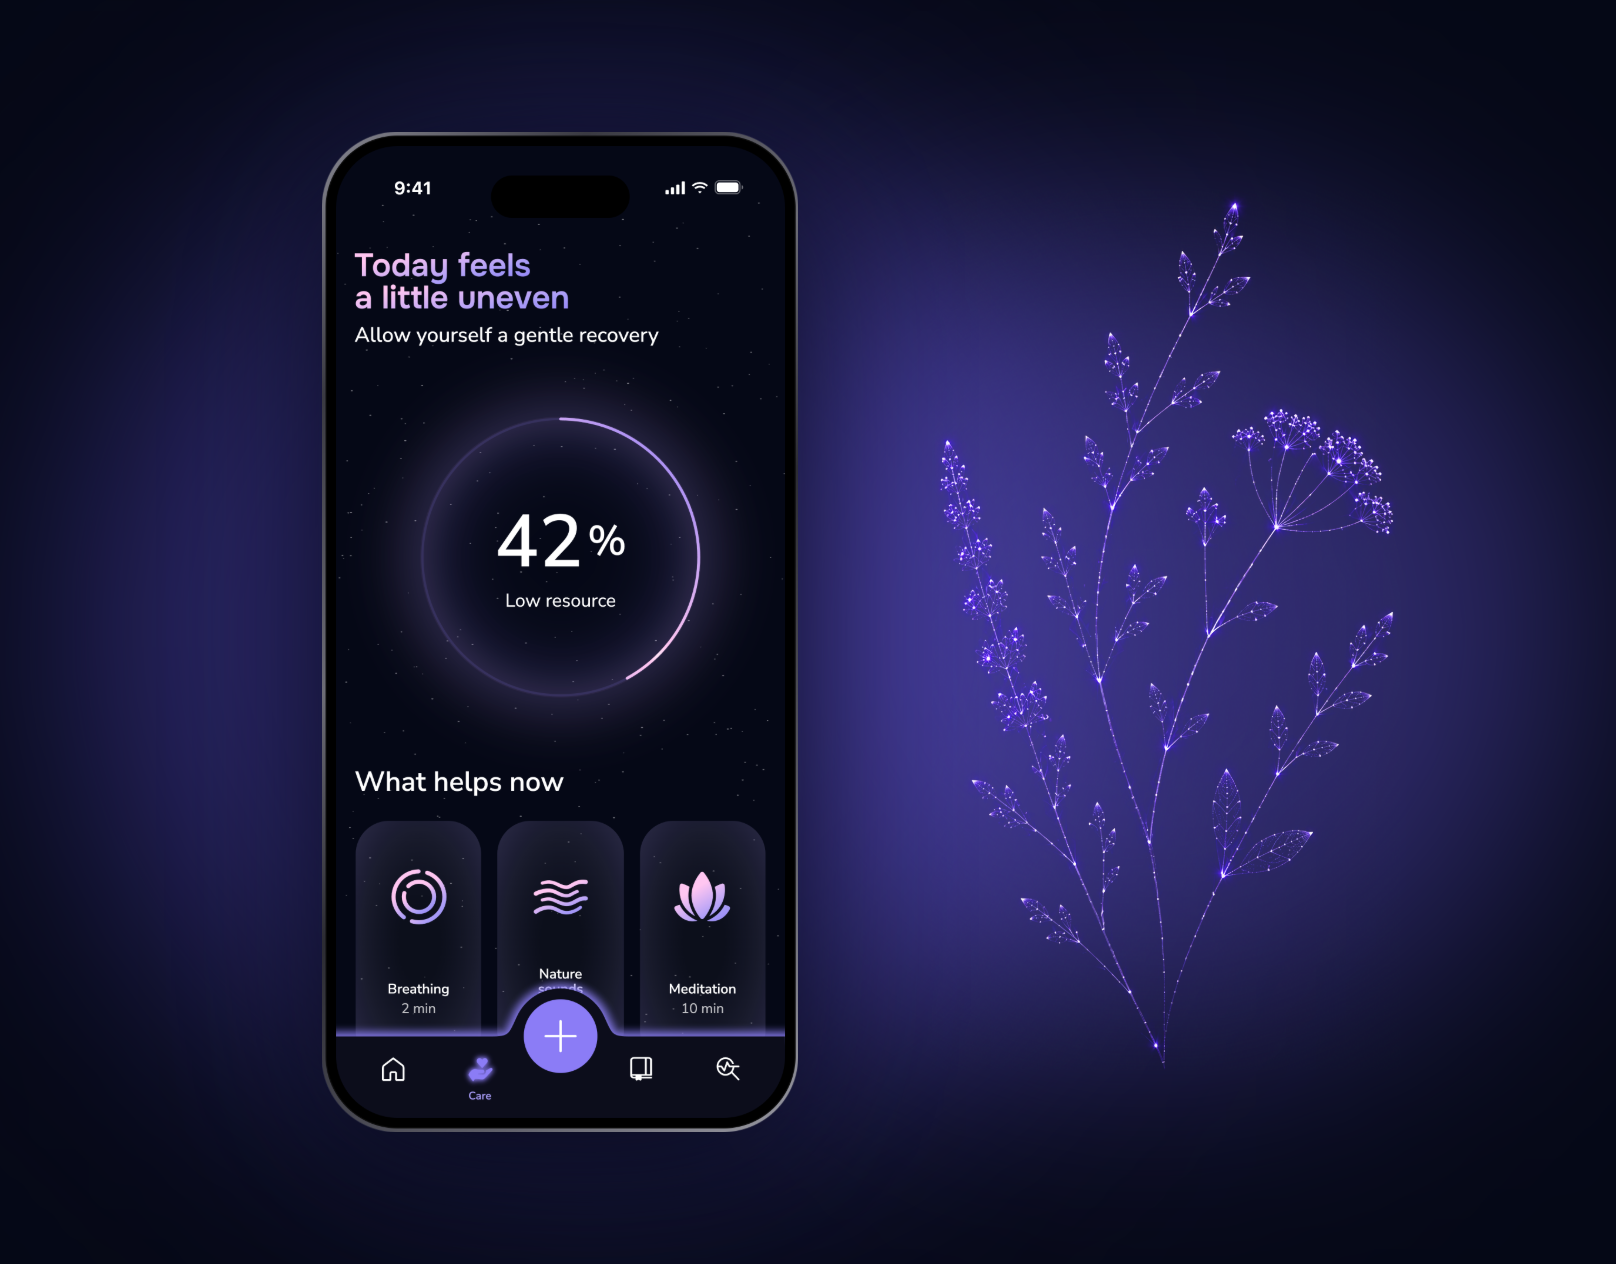
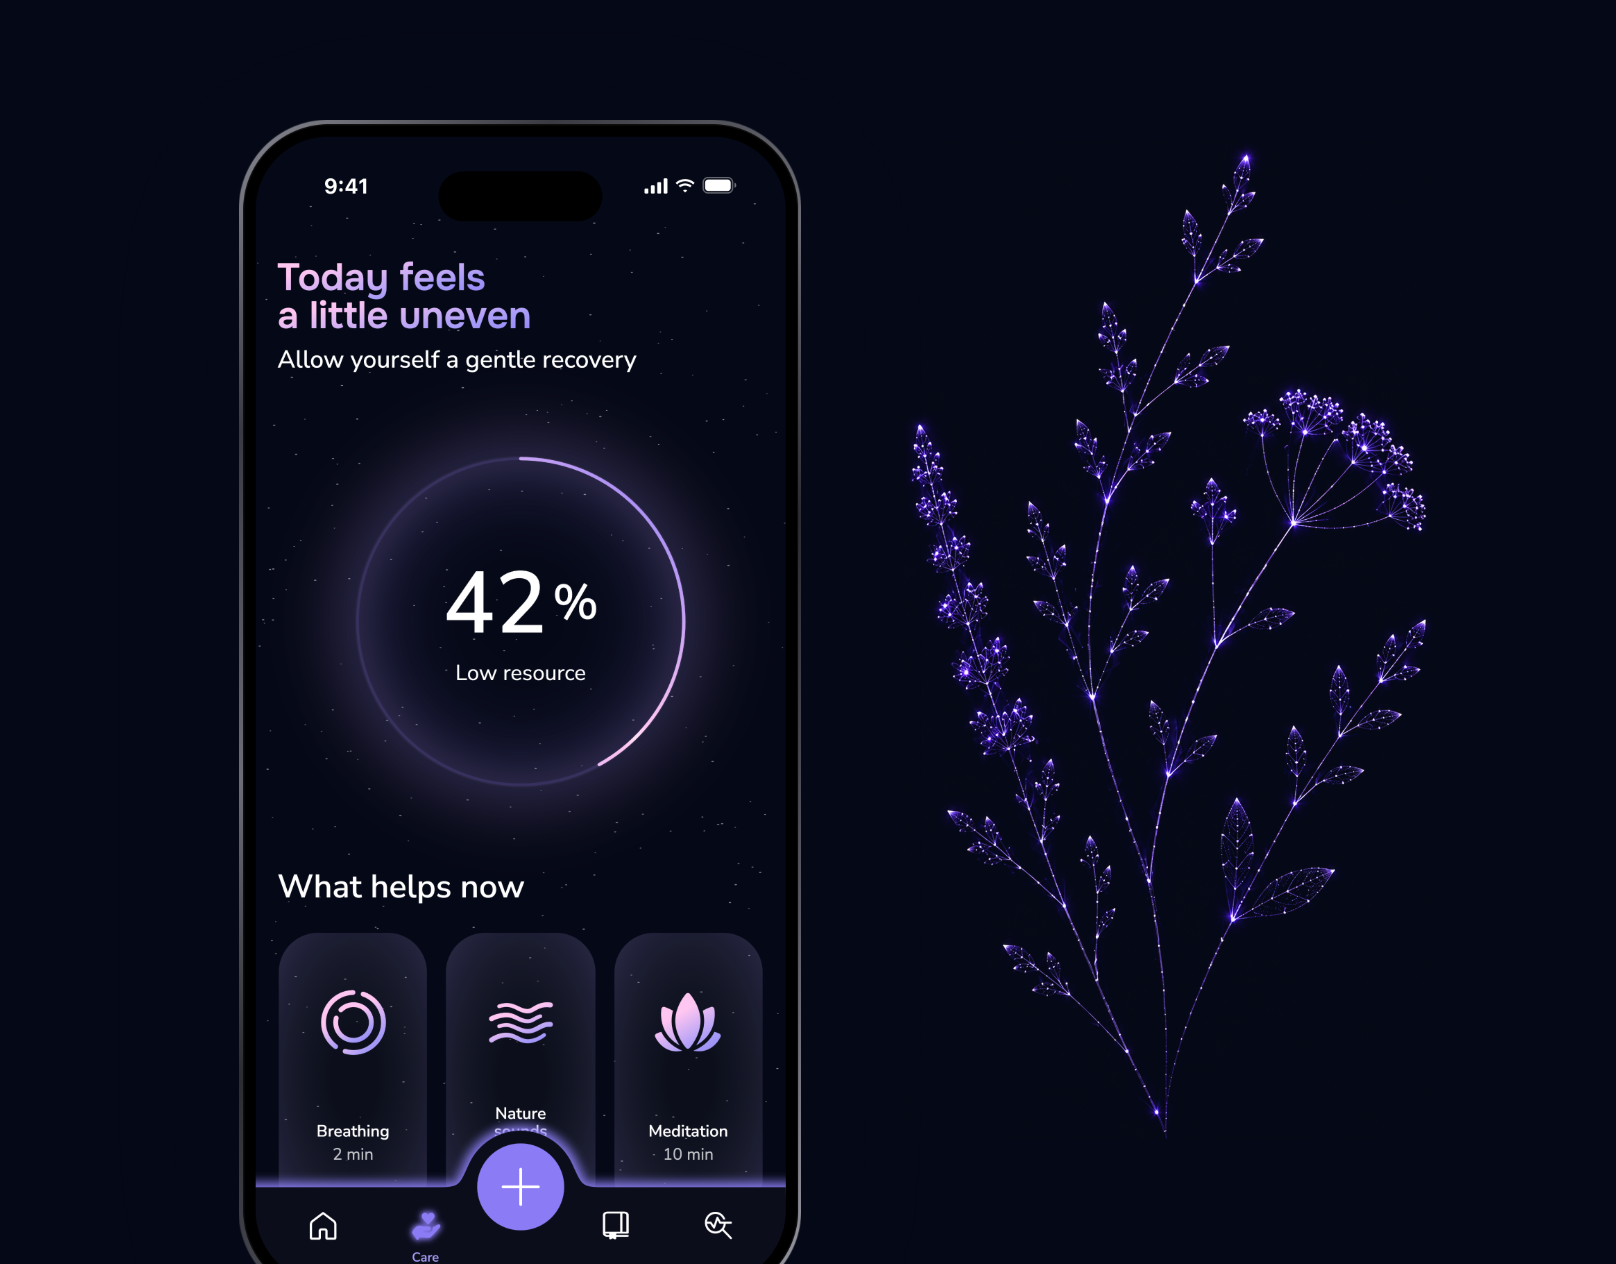
Behance case: cover D only, three lighting versions

diff --git a/Behance кейс/Обложка/превью-проекта/cover-options.html b/Behance кейс/Обложка/превью-проекта/cover-options.html
@@ -1,14 +1,13 @@
 <!doctype html>
 <html><head><meta charset="utf-8">
-<title>Behance project cover — options</title>
-<link href="https://fonts.googleapis.com/css2?family=Nunito+Sans:opsz,wght@6..12,300;6..12,400&family=Onest:wght@300;400&display=swap" rel="stylesheet">
-<!-- Behance feed thumbnail (808×632, made at 2x = 1616×1264). Goal: readable at matchbox size: one big bright object, little or no text.
-     Only real assets: thin phone mockups (Мокапы/thin), a frame of the 'hard evening' video (breathing orb), the closing logo render, the herb original.
-     ?full=1 shows the frames at 100% for export. -->
+<title>Behance project cover — D</title>
+<!-- Behance feed thumbnail (808×632, made at 2x = 1616×1264), her pick: variant D (Care phone bleeding off the bottom + the evening-calm herb).
+     11-14: other variants removed; she found the light under the herb too bright, so D1 = softer, smaller light; D2 = no lights at all; D3 = light behind the phone only.
+     ?full=1 shows the frames at 100% for export (tools/cover-shoot.js). -->
 <style>
   * { box-sizing:border-box; }
-  body { margin:0; background:#1e1e22; font-family:'Nunito Sans',sans-serif; color:#9a9aa6; padding:30px 40px 80px; }
-  .opt { font-size:15px; margin:40px 0 10px; line-height:1.55; max-width:1100px; } .opt b { color:#e4e2ee; font-weight:400; }
+  body { margin:0; background:#1e1e22; font-family:-apple-system, sans-serif; color:#9a9aa6; padding:30px 40px 80px; }
+  .opt { font-size:15px; margin:40px 0 10px; line-height:1.55; max-width:1100px; } .opt b { color:#e4e2ee; font-weight:500; }
   .zoom { zoom:.42; } body.full .zoom { zoom:1; } body.full .opt, body.full .feed { display:none; }
   .c { width:1616px; height:1264px; position:relative; overflow:hidden; background:#050816; }
   .abs { position:absolute; }
@@ -17,27 +16,16 @@
   .feed .t { width:404px; } .feed .t .img { width:404px; height:316px; border-radius:8px; overflow:hidden; }
   .feed .t .img > .c { zoom:.25; } .feed .cap { font-size:13px; color:#e4e2ee; margin-top:8px; } .feed .cap span { display:block; color:#8a8a96; font-size:12px; }
   .ph { position:absolute; filter:drop-shadow(0 30px 80px rgba(5,8,22,.9)); }
-  .word { position:absolute; font-family:'Onest'; font-weight:300; letter-spacing:.32em; color:#DDD9FF; }
-  .sub { position:absolute; font-family:'Nunito Sans'; font-weight:300; letter-spacing:.04em; color:#A6ABC6; }
 </style></head><body><div id="wrap">
 
-<div class="opt"><b>A · Breath.</b> Один телефон с большим светящимся шаром дыхания (кадр из «A hard evening»), за ним мягкий фиолетовый свет. Ни одного слова, только самый «живой» экран приложения.</div>
-<div class="zoom"><div class="c" id="A"></div></div>
+<div class="opt"><b>D1 · Мягче.</b> Свет за травой меньше и тусклее, за телефоном как было.</div>
+<div class="zoom"><div class="c" id="D1"></div></div>
 
-<div class="opt"><b>B · Three screens.</b> Три настоящих экрана веером: Home с биоритмами, Care с кольцом 42% в центре и крупнее, экран с шаром дыхания. Сразу видно, что это целое приложение.</div>
-<div class="zoom"><div class="c" id="B"></div></div>
-
-<div class="opt"><b>B2 · Three screens, целиком.</b> То же, но телефоны не уходят за край: целиком, с отступами сверху и снизу.</div>
-<div class="zoom"><div class="c" id="B2"></div></div>
-
-<div class="opt"><b>C · The ring.</b> Логотип Soma, кольцо света из финала кейса, крупно по центру, под ним тихая подпись. Самый узнаваемый и «брендовый» вариант.</div>
-<div class="zoom"><div class="c" id="C"></div></div>
-
-<div class="opt"><b>D · Care and the herb.</b> Экран Care с кольцом 42% слева, справа крупно трава из чайного ритуала, светящаяся точками. Самый атмосферный вариант, про заботу.</div>
-<div class="zoom"><div class="c" id="D"></div></div>
-
-<div class="opt"><b>D2 · Care and the herb, целиком.</b> Телефон целиком, трава чуть меньше, чтобы баланс сохранился.</div>
+<div class="opt"><b>D2 · Без пятен.</b> Чистый тёмный фон, светятся только экран и трава.</div>
 <div class="zoom"><div class="c" id="D2"></div></div>
+
+<div class="opt"><b>D3 · Свет только за телефоном.</b> Трава на чистом тёмном фоне, мягкое пятно остаётся только за экраном.</div>
+<div class="zoom"><div class="c" id="D3"></div></div>
 
 <div class="opt"><b>Как это выглядит в ленте</b> (размер превью на Behance):</div>
 <div class="feed" id="feed"></div>
@@ -48,42 +36,15 @@ if (new URLSearchParams(location.search).get('full')) document.body.classList.ad
 const TH = '../../Мокапы/thin/', P = '../../Мокапы/parts/';
 const put = (id, h) => document.getElementById(id).insertAdjacentHTML('beforeend', h);
 const glow = (x, y, r, c, o) => `<div class="glow" style="left:${x - r}px; top:${y - r}px; width:${2 * r}px; height:${2 * r}px; background:${c}; opacity:${o}"></div>`;
-// thin phones are 1620×3400 (phone fills the canvas); the breathing phone cut from video is 463×973
 const phone = (src, cx, top, h, ratio = 1620 / 3400) => `<img class="ph" src="${src}" style="left:${cx - h * ratio / 2}px; top:${top}px; height:${h}px">`;
+const D = lights => lights + phone(TH + 'phone-care.png', 520, 120, 1180) + `<img class="abs" src="${P}evening-calm-herbs-hi.png" style="left:900px; top:140px; height:1000px">`;
 
-// A · Breath
-put('A', glow(808, 600, 520, '#6355D6', .55) + glow(808, 520, 260, '#A89CF8', .35) +
-  phone('phone-breath.png', 808, 120, 1180, 463 / 973));
+put('D1', D(glow(560, 640, 520, '#4C41B0', .55) + glow(1180, 620, 260, '#6355D6', .22)));
+put('D2', D(''));
+put('D3', D(glow(560, 640, 520, '#4C41B0', .55)));
 
-// B · Three screens
-put('B', glow(808, 640, 600, '#4C41B0', .55) + glow(808, 560, 300, '#8B7CF6', .35) +
-  phone(TH + 'phone-home-biorhythms.png', 330, 270, 940) + phone('phone-breath.png', 1286, 270, 940, 463 / 973) +
-  phone(TH + 'phone-care.png', 808, 120, 1180));
-
-// C · The ring (closing render: ring centre 960,440, radius 210 on 1920×1000)
-put('C', `<div class="abs" style="left:${808 - 960 * 1.6}px; top:${560 - 440 * 1.6}px; width:${1920 * 1.6}px; height:${1000 * 1.6}px; background:url(../../Анимации/closing/closing-poster.png) 0 0/100% 100%;
-  -webkit-mask-image:radial-gradient(circle at ${960 * 1.6}px ${440 * 1.6}px, #000 400px, transparent 500px); mask-image:radial-gradient(circle at ${960 * 1.6}px ${440 * 1.6}px, #000 400px, transparent 500px)"></div>` +
-  glow(808, 560, 420, '#6355D6', .35) +
-  `<div class="sub" style="left:0; right:0; top:1040px; text-align:center; font-size:40px">Wellness app · UX/UI case study</div>`);
-
-// D · Care and the herb
-put('D', glow(560, 640, 520, '#4C41B0', .55) + glow(1180, 600, 420, '#6355D6', .45) +
-  phone(TH + 'phone-care.png', 520, 120, 1180) +
-  `<img class="abs" src="${P}evening-calm-herbs-hi.png" style="left:900px; top:140px; height:1000px">`);
-
-// B2 · whole phones: centre 1000 tall (132 margin top and bottom), sides 860
-put('B2', glow(808, 632, 600, '#4C41B0', .55) + glow(808, 600, 300, '#8B7CF6', .35) +
-  phone(TH + 'phone-home-biorhythms.png', 350, 202, 860) + phone('phone-breath.png', 1266, 202, 860, 463 / 973) +
-  phone(TH + 'phone-care.png', 808, 132, 1000));
-
-// D2 · whole phone + herb
-put('D2', glow(600, 632, 520, '#4C41B0', .55) + glow(1150, 632, 420, '#6355D6', .45) +
-  phone(TH + 'phone-care.png', 560, 132, 1000) +
-  `<img class="abs" src="${P}evening-calm-herbs-hi.png" style="left:930px; top:190px; height:880px">`);
-
-// feed preview
 const feed = document.getElementById('feed');
-for (const id of ['B', 'B2', 'C', 'D', 'D2']) { const src = document.getElementById(id);
-  feed.insertAdjacentHTML('beforeend', `<div class="t"><div class="img">${src.outerHTML.replace(`id="${id}"`, '')}</div><div class="cap">Soma · Wellness App UX/UI Case Study<span>Anastasia Kokyrtsa · вариант ${id}</span></div></div>`); }
+for (const id of ['D1', 'D2', 'D3']) { const src = document.getElementById(id);
+  feed.insertAdjacentHTML('beforeend', `<div class="t"><div class="img">${src.outerHTML.replace(`id="${id}"`, '')}</div><div class="cap">Soma · Wellness App UX/UI Case Study<span>Anastasia Kokyrtsa · ${id}</span></div></div>`); }
 </script>
 </body></html>
